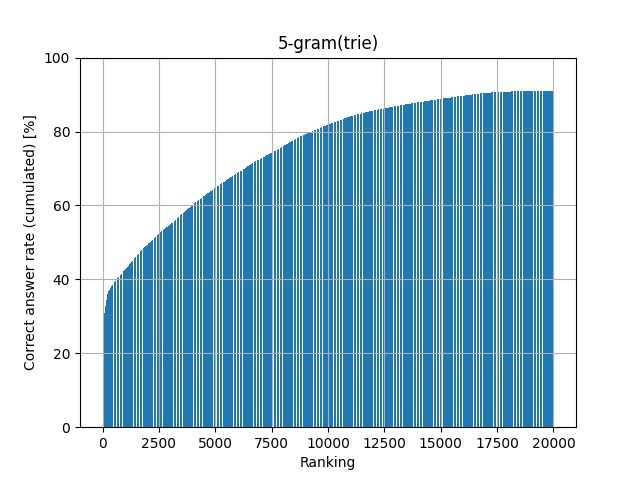
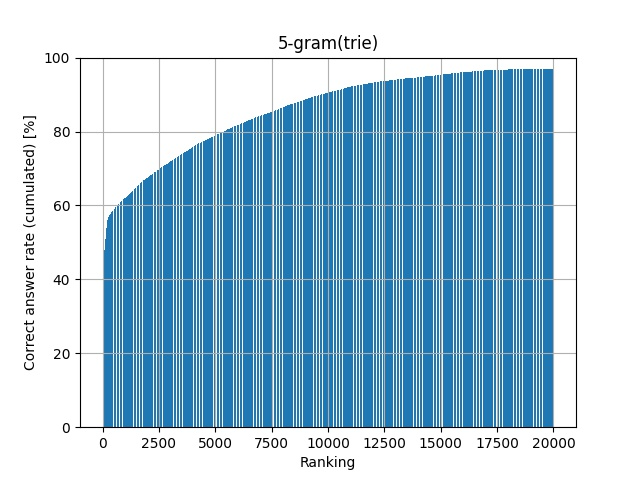
正規表現と，get_user_inputの引数をidxへ修正

Changed region(s): [[0.1562, 0.125, 0.875, 0.625]]

diff --git a/create_trie.py b/create_trie.py
@@ -17,7 +17,7 @@ MML_DIR = '/mnt/c/mizar/mml'
 MML_VCT = './data/mml.vct'
 
 # トライの最大の深さ
-N = 3
+N = 5
 Ranking_Number = 20000
 
 class TrieNode:
@@ -142,14 +142,9 @@ class TrieCompleteManager:
 
     # 「__M_」などを具体的に，優先度をつけて提案できるように
     def predict(self, user_input, parsed_input, type_to_symbols, variables, labels):
-        n = len(user_input)
-        tree = self.root
-        
-        # カーソル直前のトークン数
-        if n > N:
-            n = N
-
+        node = self.root
         parsed_input_reversed = parsed_input[::-1]
+        user_input_reversed = user_input[::-1]
 
         # ユーザ入力から，トライ木を検索
         for i in range(len(parsed_input_reversed)):
@@ -158,24 +153,24 @@ class TrieCompleteManager:
             # 「let x be object;」
             # token = check_token_type(token_list, i)
             token = parsed_input_reversed[i]
+            # print(f'parsed_input:{parsed_input}')
+            # print(f'user_input:{user_input}')
 
             # ユーザが利用している変数を保存
-            if token == '__variable_':
-                variables.append(user_input[i])
-                pass
+            if token == '__variable_' and token not in set(variables):
+                variables.append(user_input_reversed[i])
             # ユーザが利用しているラベルを保存
-            elif token == '__label_':
-                labels.append(user_input[i])
-                pass
+            elif token == '__label_' and token not in set(labels):
+                labels.append(user_input_reversed[i])
             # トライ木の検索
-            if token in tree.children:
-                tree = tree.children[token]
+            if token in node.children:
+                node = node.children[token]
             else:
                 return {}
 
         # sorted_keywordsは[[トークン, 出現回数]]の形式
-        # 例：[['__variable', 100], ['be', 60] ... ]
-        sorted_keywords = sorted(tree.keywords.items(), key=lambda x:x[1], reverse=True)
+        # 例：[['__variable_', 100], ['be', 60] ... ]
+        sorted_keywords = sorted(node.keywords.items(), key=lambda x:x[1], reverse=True)
 
         # {キーワード:優先度}の形式で保存する
         # 例：{"be":1, "being":2}
@@ -184,7 +179,7 @@ class TrieCompleteManager:
 
         # 「__variable_」「__M_」などを展開する処理
         for keyword in sorted_keywords:
-            matched = re.match(r'__(\w)_', keyword[0])
+            matched = re.match(r'__(\w\d*)_', keyword[0])
             if matched:
                 symbol_type = matched.groups()[0]
                 if symbol_type is None:
@@ -213,7 +208,7 @@ class TrieCompleteManager:
         return suggest_keywords
 
     def assess_mml_acuracy(self):
-        self.apply_all_files(1105, 1110, 'acuracy')
+        self.apply_all_files(1100, 1105, 'acuracy')
         # 測定後の精度を作成
         self.draw()
 
@@ -261,7 +256,7 @@ class OneFileAssessManager:
             user_input = line_tokens[i-N+1:i]
             parsed_input = parsed_tokens[i-N+1:i]
         else:
-            user_input = parsed_tokens[:i]
+            user_input = line_tokens[:i]
             parsed_input = parsed_tokens[:i]
         
         return user_input, parsed_input
@@ -270,6 +265,9 @@ class OneFileAssessManager:
         right_answer_nums = [0 for _ in range(Ranking_Number)]
         prediction_cnt = 0
         in_suggest_cnt = 0
+
+        # 不正解のキーワード保存用
+        wrong_answers = {}
 
         for line in self.article:
             line_tokens= []
@@ -293,6 +291,12 @@ class OneFileAssessManager:
                 if answer in suggest_keywords:
                     in_suggest_cnt += 1
                     rank = suggest_keywords[answer]
+                # 不正解キーワードの表示（デバッグ用）
+                # else:
+                #     if answer in wrong_answers:
+                #         wrong_answers[answer] += 1
+                #     else:
+                #         wrong_answers[answer] = 1
 
                 # Ranking_Number候補以内であればインクリメント
                 if answer in suggest_keywords and suggest_keywords[answer] <= Ranking_Number:
@@ -306,54 +310,55 @@ class OneFileAssessManager:
     def assess_file_keystroke(self, trie_manager):
         original_cost = 0
         cost = 0
-        
         saving_cost = 0
-        # lineは[[let, let], [x, __variable_], [be, be], [object, __M_]]のような形式
 
+        # lineは[[let, let], [x, __variable_], [be, be], [object, __M_]]のような形式
         for line in self.article:
             line_tokens= []
             parsed_tokens = []
-            print(f'original_cost:{original_cost}, cost:{cost}')
-            
+            # print(f'original_cost:{original_cost}, cost:{cost}')
             for token in line:
                 # tokenは["x", "__variable_"]のようになっている
                 line_tokens.append(token[0])
                 parsed_tokens.append(token[1])
-
-            for i in range(1, len(line_tokens)):
-                answer = line[i][0]
-
-            length = len(line)
+            length = len(line)            
+            # 文頭のトークンは予測できないため，コストとして追加
+            first_token_cost = len(line_tokens[0])
+            original_cost += first_token_cost
+            cost += first_token_cost
+            # print(line, first_token_cost)
             for idx in range(1, length):
                 answer = line[idx][0]
-                token_cost = len(answer)
-                original_cost += token_cost
+                remaining_cost = len(answer)
+                original_cost += remaining_cost
 
-                user_input, parsed_input = self.get_user_input(i, line_tokens, parsed_tokens)
+                user_input, parsed_input = self.get_user_input(idx, line_tokens, parsed_tokens)
                 items = trie_manager.predict(user_input, parsed_input, self.type_to_symbols, self.variables, self.labels)
 
-                if token_cost <= 1:
-                    cost += token_cost
+                if remaining_cost <= 1:
+                    cost += remaining_cost
                 elif answer in items:
                     input_idx = 0
-                    while token_cost >= 2:
+                    while remaining_cost >= 2:
                         select_cost = items[answer]
-                        if select_cost < token_cost:
-                            print(f'answer:{answer}, items[answer]:{items[answer]}, 文字入力数:{input_idx}')
-                            print(f'select_cost:{select_cost}, token_cost:{token_cost}')
-                            print(f'節約コスト：{token_cost - select_cost}')
-                            saving_cost += (token_cost - select_cost)
+                        if select_cost < remaining_cost:
+                            print(f'正解:{answer}, 予測順位:{items[answer]}, 文字入力数:{input_idx}')
+                            print(f'本来のコスト:{len(answer)}')
+                            print(f'節約コスト：{remaining_cost - select_cost}')
+                            saving_cost += (remaining_cost - select_cost)
+                            print(f'節約数の合計：{saving_cost}')
                             print()
                             cost += select_cost
                             break
-                        # 1文字入力
+                        # 1文字入力して，提案キーワードを更新する処理
                         else:
                             input_idx += 1
                             cost += 1
-                            token_cost -= 1
+                            # 1文字入力したため，トークンを入力するコストが「1」減少する
+                            remaining_cost -= 1
                             # 残りのコストが2未満の場合は，節約にならないため，残りのコストを加えて終了
-                            if token_cost < 2:
-                                cost += token_cost
+                            if remaining_cost < 2:
+                                cost += remaining_cost
                                 break
 
                             # 提案キーワード群の更新
@@ -362,12 +367,13 @@ class OneFileAssessManager:
                                 if keyword.startswith(answer[:input_idx]):
                                     tmp.append(keyword)
                             items = {}
+                            # 提案キーワードの順位を保持する変数
                             cnt = 1
                             for item in tmp:
                                 items[item] = cnt
                                 cnt += 1
                 else:
-                    cost += token_cost
+                    cost += remaining_cost
     
         return original_cost, cost, saving_cost
 
@@ -375,7 +381,7 @@ class OneFileAssessManager:
         for line in self.article:
             length = len(line)
             for idx in range(1, length):
-                # 予測対象のトークン
+                # 予測対象のトークンを取得
                 token = line[idx][1]
                 parent_node = None
                 node = None
@@ -383,8 +389,7 @@ class OneFileAssessManager:
                 # 直前トークン数がN未満の場合
                 if idx-N+1 < 0:
                     diff = abs(idx-N+1)
-                # HACK:このあたりが怪しい
-                # reversed(range(1, 4)) -> 3, 2, 1となる
+                # reversed(range(0, 3)) -> 2, 1, 0となる
                 for j in reversed(range(idx-N+1+diff, idx)):
                     if j == idx-1:
                         parent_node = trie_manager.root
@@ -392,17 +397,17 @@ class OneFileAssessManager:
                     # 既に同名のノードが存在すれば取得
                     if node_name in parent_node.children:
                         node = parent_node.children[node_name]
-                    # 同名のノードが存在しなければ生成
+                    # 同名のノードが存在しなければ生成し，子ノードとして追加
                     else:
                         node = TrieNode(node_name)
+                        parent_node.add_child(node)
                     # 各ノードに予測対象のキーワードを保存
-                    # {予測対象のワード:登場回数}
+                    # node.keywordsは{予測対象のワード:登場回数}の形式
                     if token in node.keywords:
                         node.keywords[token] += 1
                     else:
                         node.keywords[token] = 1
-                    # FIXME:ノードの追加は新しく生成したときでは？
-                    parent_node.add_child(node)
+                        
                     node.set_parent(parent_node)
                     parent_node = node
     
@@ -410,13 +415,13 @@ if __name__ == '__main__':
     trie_manager = TrieCompleteManager()
     trie_manager.setup()
 
-    trie_manager.assess_mml_acuracy()
-    print(trie_manager.accuracy, trie_manager.right_answer_nums, trie_manager.prediction_time)
+    # trie_manager.assess_mml_acuracy()
+    # print(trie_manager.accuracy, trie_manager.right_answer_nums, trie_manager.prediction_time)
 
 
-    # file_manager = OneFileAssessManager('./learning_data/pascal.json')
-    # original_cost, cost, saving_cost = file_manager.assess_file_keystroke(trie_manager)
-    # print(original_cost, cost, saving_cost)
+    file_manager = OneFileAssessManager('./learning_data/diophan2.json')
+    original_cost, cost, saving_cost = file_manager.assess_file_keystroke(trie_manager)
+    print(original_cost, cost, saving_cost)
     # ranking, in_suggest_cnt, total = file_manager.assess_file_acuracy(trie_manager)
     # print(ranking, in_suggest_cnt, total)
 

diff --git a/keystroke.py b/keystroke.py
@@ -16,7 +16,7 @@ lexer = preprocess.Lexer()
 lexer.load_symbol_dict(MML_VCT)
 lexer.build_len2symbol()
 
-file_name = "/mnt/c/mizar/mml/diophan2.miz"
+file_name = "/mnt/c/mizar/mml/nomin_6.miz"
 
 N = 3
 
@@ -77,6 +77,7 @@ if __name__ == '__main__':
         autocomplete_cost = 0
         
         for line in tokenized_lines:
+            # 正規表現が完全ではないため，シンボルなどが置き換えられて文字数が少なくなっていたかも
             line = re.sub('__\w+_', '', line)
             token_list = line.split(" ")
             original_line_cost = 0
